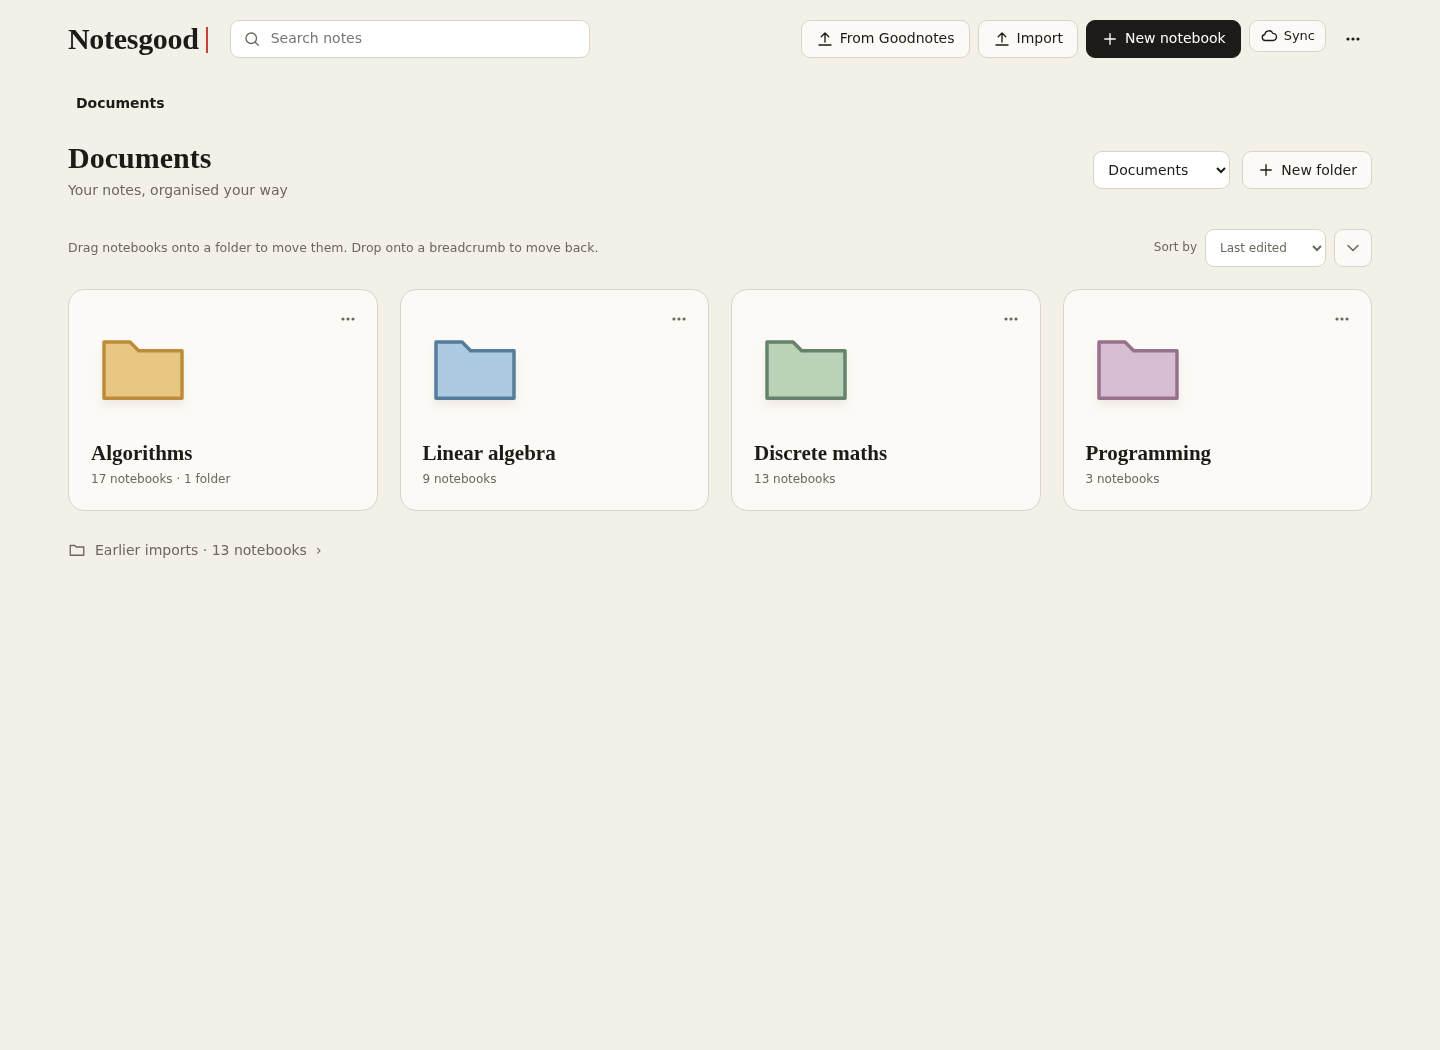
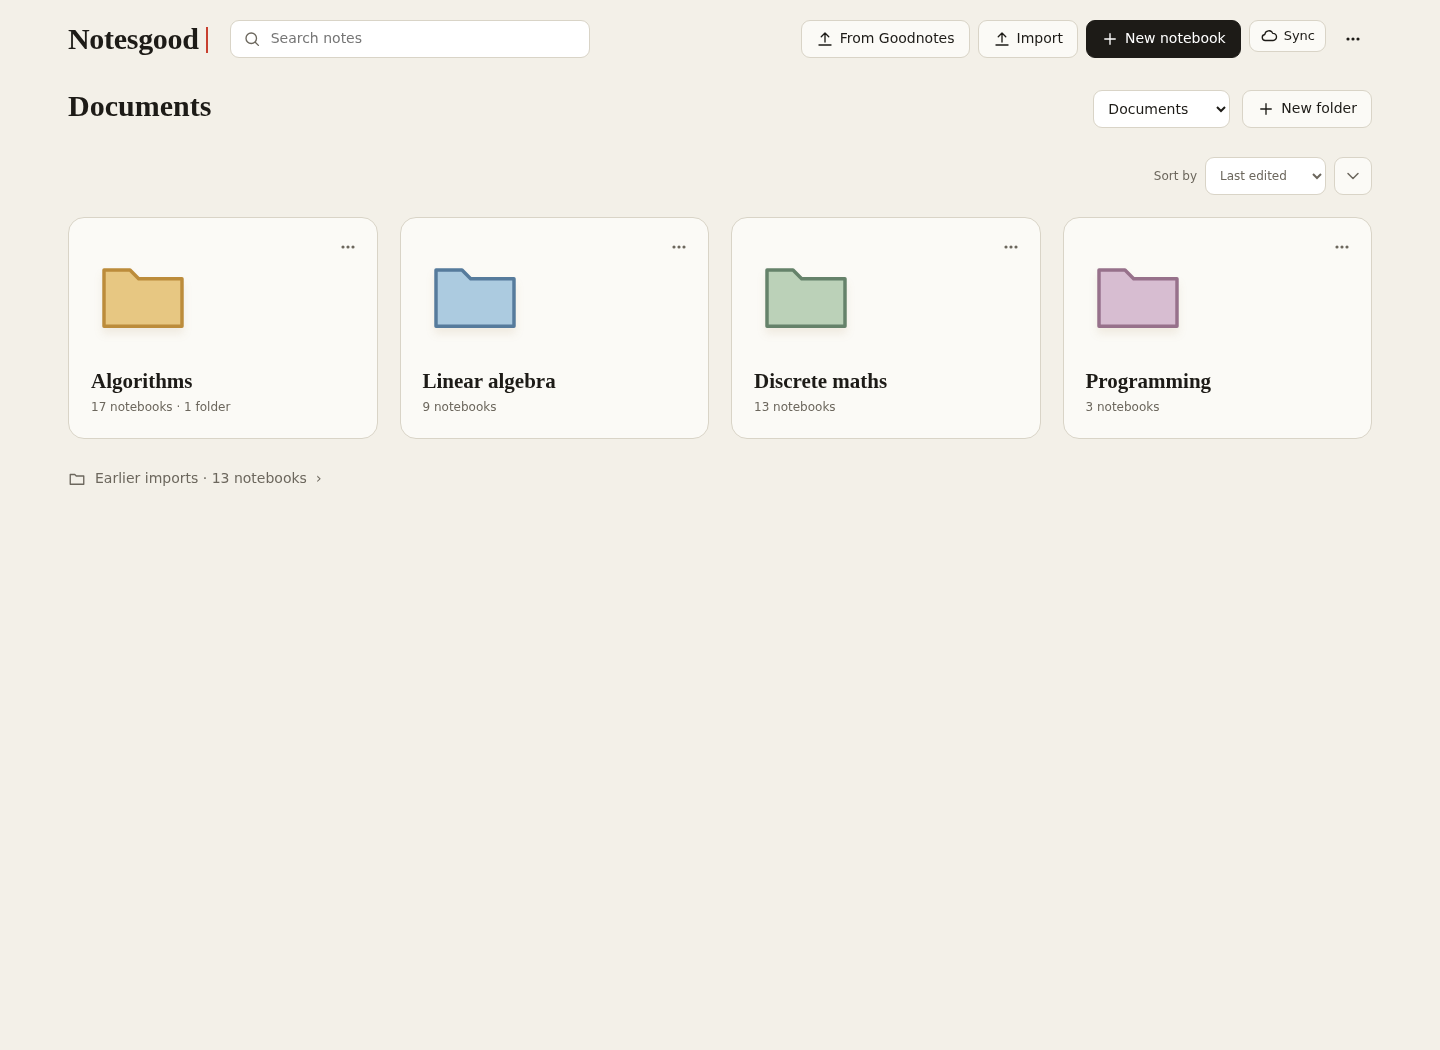
ui: simplify the library and move import status into its dialog

diff --git a/src/library.ts b/src/library.ts
@@ -94,9 +94,8 @@ export async function showLibrary(root: HTMLElement, openNotebook: (id: string) 
         h('button', { class: 'btn primary', type: 'button', onclick: newNotebook }, icon('plus', 18), 'New notebook'),
         syncBtn, libMore),
       fileInput, dirInput),
-    navigation, importStatus,
+    navigation,
     h('div', { class: 'library-tools' },
-      h('p', { class: 'hint' }, 'Drag notebooks onto a folder to move them. Drop onto a breadcrumb to move back.'),
       h('label', { class: 'sort-controls' }, h('span', null, 'Sort by'), sortSelect, sortDirection)),
     folderSection, earlierImports, notebookHeading, grid);
 
@@ -179,6 +178,7 @@ export async function showLibrary(root: HTMLElement, openNotebook: (id: string) 
   }
 
   async function goodnotesHelp() {
+    if (!importMessage.textContent) setImportStatus(autoEnabled() ? 'Automatic import is on.' : 'Automatic import is paused.');
     const space = h('select', { class: 'field', onchange: () => localStorage.setItem('goodnotes.margin', space.value) },
       ...[['0', 'Keep the original page layout'], ['0.5', 'Add half a page of writing space'], ['1', 'Add a full page of writing space']].map(([value, label]) =>
         h('option', { value, selected: Number(value) === goodnotesMargin() }, label)));
@@ -191,7 +191,8 @@ export async function showLibrary(root: HTMLElement, openNotebook: (id: string) 
         (window as any).showDirectoryPicker ? h('button', { class: 'btn', type: 'button', onclick: watchBackupFolder }, 'Watch a backup folder…') : null),
       h('p', null, 'Goodnotes Web, Windows, or Android: open a notebook → Share → Export as PDF. You can export notebooks one at a time; a full-library export is not required.'),
       h('p', null, 'On iPad or Mac, select documents or folders in the library → Export → PDF. A PDF folder export can be imported as a ZIP.'),
-      h('p', { class: 'hint' }, 'On this Nix desktop, PDFs downloaded from the Goodnotes app into Downloads are picked up automatically while the library is open. Other downloads and files prepared for Goodnotes are ignored. You can pause this in the library.'),
+      importStatus,
+      h('p', { class: 'hint' }, 'On this Nix desktop, PDFs downloaded from the Goodnotes app into Downloads are picked up automatically while the library is open. Other downloads and files prepared for Goodnotes are ignored.'),
       h('p', { class: 'hint' }, 'A watched folder must contain PDF exports, for example a local copy of a Goodnotes Auto Backup folder. Your browser may ask you to reconnect it after restarting.'),
       h('p', { class: 'hint' }, 'Native .goodnotes files need to be exported as PDF first. Existing handwriting stays visible in the PDF, but cannot be erased as individual strokes.'));
     await modal({ title: 'Import from Goodnotes', body, ok: 'Done', cancel: null });
@@ -308,6 +309,7 @@ export async function showLibrary(root: HTMLElement, openNotebook: (id: string) 
   function renderNavigation() {
     folders = folderPaths([...folders, ...notebooks.map((nb) => nb.folder)]);
     const crumbs = h('nav', { class: 'breadcrumbs', 'aria-label': 'Folder path' });
+    crumbs.hidden = filter.k === 'folder' && !filter.name;
     const crumb = (label: string, path: string, current: boolean) => {
       const button = h('button', { type: 'button', class: 'breadcrumb', 'aria-current': current ? 'page' : null,
         onclick: () => navigate({ k: 'folder', name: path }) }, label);
@@ -324,8 +326,7 @@ export async function showLibrary(root: HTMLElement, openNotebook: (id: string) 
       navigate(k === 'all' || k === 'fav' ? { k } : { k: 'folder', name: '' });
     } }, ...[['folder', 'Documents'], ['all', 'All notebooks'], ['fav', 'Favourites']].map(([value, label]) => h('option', { value, selected: filter.k === value }, label)));
     navigation.replaceChildren(crumbs, h('div', { class: 'library-title-row' },
-      h('div', null, h('h2', { class: 'library-title' }, filter.k === 'folder' ? folderName(filter.name) || 'Documents' : filter.k === 'all' ? 'All notebooks' : 'Favourites'),
-        h('p', { class: 'muted' }, filter.k === 'folder' && filter.name ? 'Your notebooks and subfolders' : 'Your notes, organised your way')),
+      h('h2', { class: 'library-title' }, filter.k === 'folder' ? folderName(filter.name) || 'Documents' : filter.k === 'all' ? 'All notebooks' : 'Favourites'),
       h('div', { class: 'library-view-actions' }, viewSelect,
         h('button', { class: 'btn', type: 'button', onclick: addFolder }, icon('plus', 18), 'New folder'))));
   }

diff --git a/src/styles.css b/src/styles.css
@@ -137,6 +137,7 @@ input[type='range'] { accent-color: var(--ink); min-width: 90px; }
 
 .library-navigation { padding: 16px 0 18px; }
 .breadcrumbs { display: flex; flex-wrap: wrap; align-items: center; gap: 6px; min-height: 32px; margin-bottom: 20px; color: var(--muted); }
+.breadcrumbs[hidden] { display: none; }
 .breadcrumb { border: 0; background: none; padding: 5px 8px; border-radius: 6px; color: var(--muted); }
 .breadcrumb:hover { background: var(--accent-soft); color: var(--accent); }
 .breadcrumb[aria-current='page'] { color: var(--ink); font-weight: 650; }
@@ -144,7 +145,7 @@ input[type='range'] { accent-color: var(--ink); min-width: 90px; }
 .library-title-row, .library-view-actions { display: flex; align-items: center; gap: 12px; }
 .library-title-row { justify-content: space-between; flex-wrap: wrap; }
 .library-title { font: 600 30px/1.2 var(--serif); margin-bottom: 5px; }
-.library-tools { display: flex; align-items: center; justify-content: space-between; gap: 16px; margin: 10px 0 22px; }
+.library-tools { display: flex; align-items: center; justify-content: flex-end; margin: 10px 0 22px; }
 .sort-controls { display: flex; align-items: center; gap: 8px; white-space: nowrap; font-size: 12px; color: var(--muted); }
 .sort-controls .ibtn { border: 1px solid var(--line); background: var(--panel); }
 .folder-grid { display: grid; grid-template-columns: repeat(4, minmax(0, 1fr)); gap: 22px; }
@@ -175,7 +176,6 @@ input[type='range'] { accent-color: var(--ink); min-width: 90px; }
 .notebook-folder { overflow: hidden; text-overflow: ellipsis; white-space: nowrap; }
 @media (max-width: 900px) { .folder-grid { grid-template-columns: repeat(2, minmax(0, 1fr)); } }
 @media (max-width: 560px) {
-  .library-tools { align-items: flex-start; flex-direction: column-reverse; gap: 10px; }
   .library-view-actions { width: 100%; justify-content: space-between; }
   .folder-grid { gap: 12px; }
   .folder-open { min-height: 188px; padding: 16px; }

diff --git a/README.md b/README.md
@@ -199,7 +199,7 @@ See [Goodnotes' export instructions](https://support.goodnotes.com/hc/en-us/arti
 
 **On the installed Nix desktop:** completed PDF downloads from the dedicated Goodnotes browser app
 are picked up automatically from Downloads while Notesgood's library is open, checked every minute.
-Pause or resume this from the library. The local helper uses Node 24 and reads a private snapshot of
+Pause, resume, or check imports under **From Goodnotes**. The local helper uses Node 24 and reads a private snapshot of
 the Fleet Goodnotes profile's download history; it imports only completed PDFs actually downloaded
 from `web.goodnotes.com`. Unrelated downloads and PDFs merely prepared for Goodnotes are ignored.
 The original files are kept. A changed export becomes a new notebook, leaving existing annotations intact.
